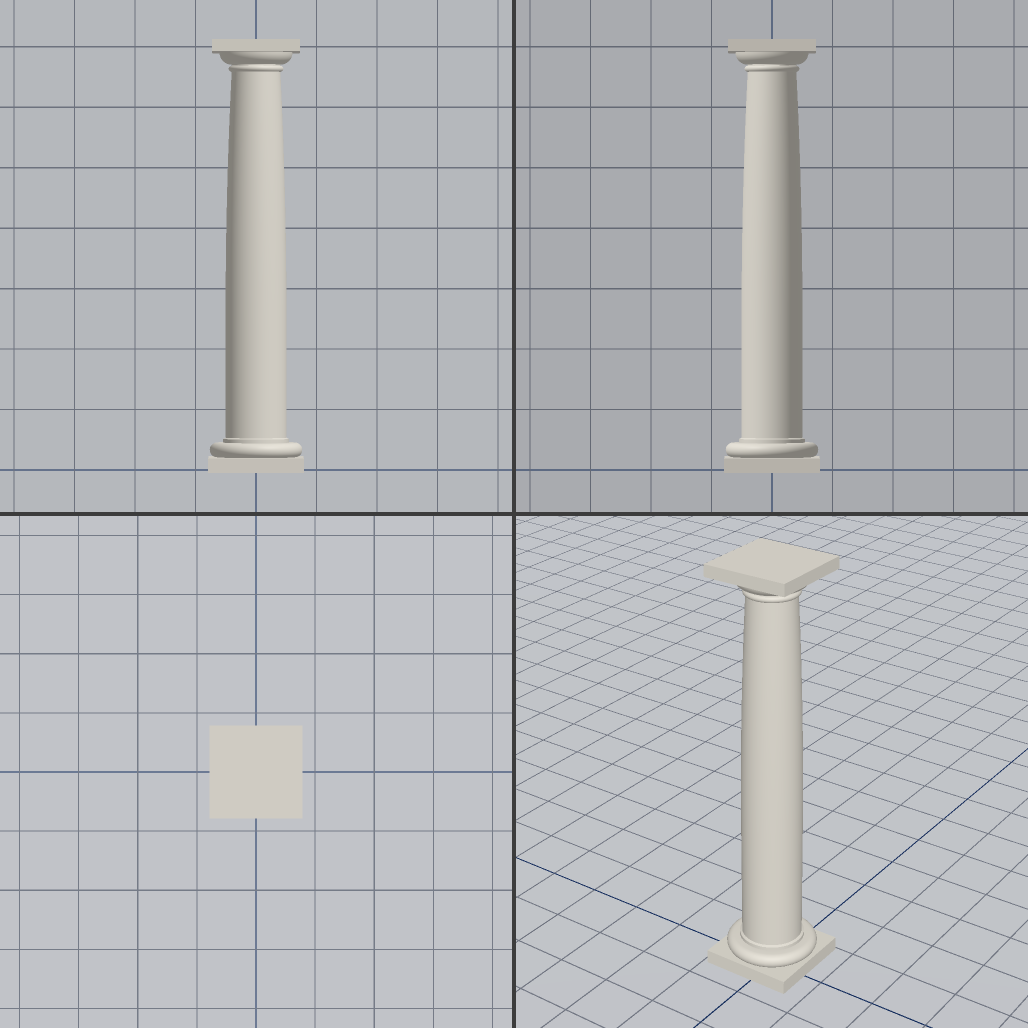
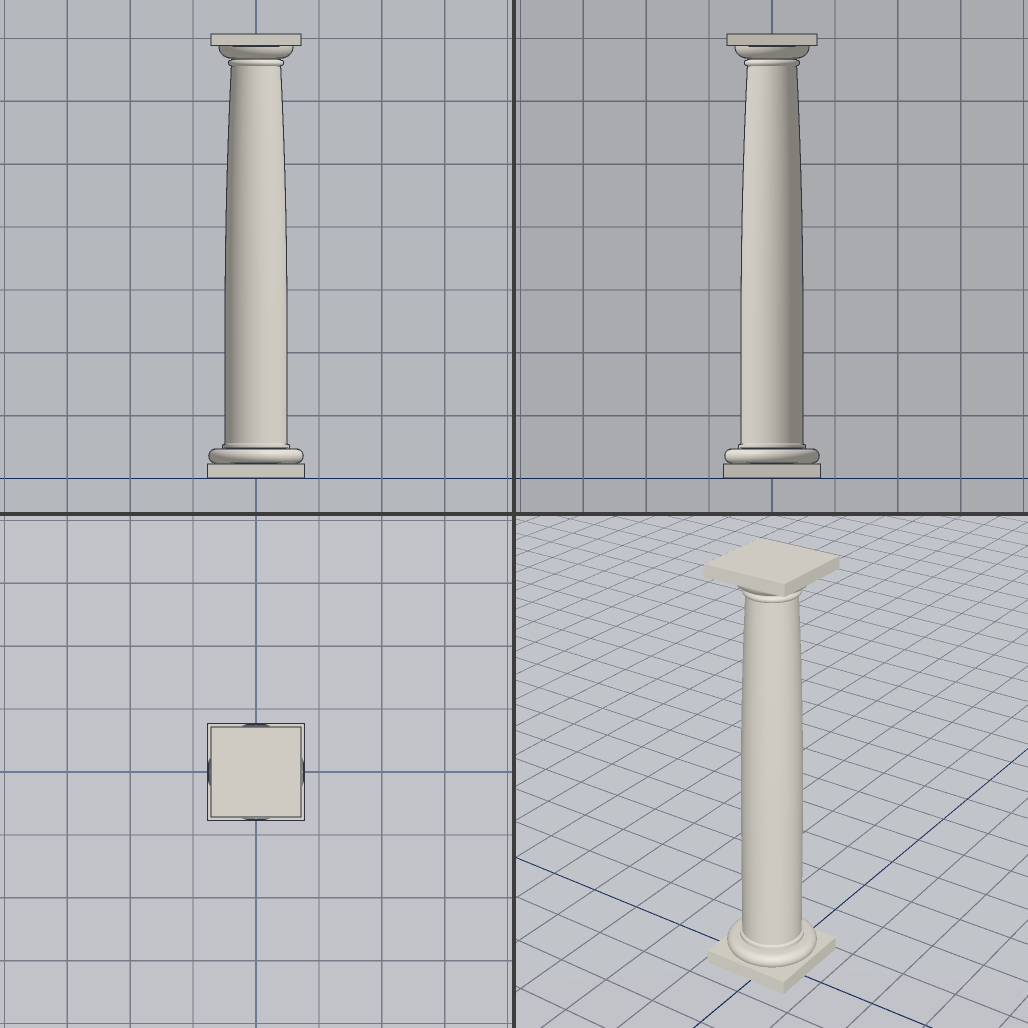
modeltool: plan views orthographic with outlines
The front, side and top views use render3d's orthographic camera (no more 4 degrees from far
away) and outlines from the depth buffer (depth jumps, creases from a slope change of 3), so
parallel faces of one colour at different depths are told apart; the three-quarter view stays
perspective.  The examples' sheets and reports again (reports: timing only); the geometry
checksum stays 5770c236d1379465 (the same at the base commit).

diff --git a/apps/modeltool/src/render.rs b/apps/modeltool/src/render.rs
@@ -2,10 +2,11 @@
 // (from +X, looking along -X: the right side), top (from +Y, the front at the bottom of the picture), the three
 // at one scale like the views of a drawing, and a three-quarter view (from front right above), each with a grid
 // behind the model whose spacing the report names; and the four as one sheet (front | side over top |
-// three-quarter).  render3d has only perspective
-// cameras and no anti-aliasing: the three plan views use a narrow field of view from far away (4 degrees, the
-// far side of a model looks at most a few per cent smaller), and every picture is drawn at twice the size
-// and averaged down.  Pictures are not part of any checksum: GPUs differ in the last bit.
+// three-quarter).  The three plan views are orthographic (render3d's Camera::ortho, G7f) with outlines from the depth
+// buffer (render3d's Outline): faces of one colour that lie parallel at different depths, which a plan view shows as
+// one area, get a line where their depth jumps (creases only from a slope change of 3, so the grid's thin slabs stay
+// without); the three-quarter view stays perspective.  Every picture is drawn at twice the size and averaged down
+// (render3d has no MSAA).  Pictures are not part of any checksum: GPUs differ in the last bit.
 
 use alloc::format;
 use alloc::string::String;
@@ -14,7 +15,7 @@ use alloc::vec::Vec;
 
 use geom::{Mesh, Vec3};
 use gpu::*;
-use render3d::{Camera, Instance, Material, MaterialId, MeshData, MeshId, Renderer, RendererDesc, Scene, Sun, Transform};
+use render3d::{Camera, Instance, Material, MaterialId, MeshData, MeshId, Outline, Renderer, RendererDesc, Scene, Sun, Transform};
 
 use crate::export::srgb_to_linear;
 use crate::host::Model;
@@ -25,8 +26,13 @@ const SUPER: u32 = 2;
 /// the background, linear rgb (an sRGB target would encode it; Rgba8Unorm takes it as it is)
 const CLEAR: [f32; 4] = [0.78, 0.81, 0.86, 1.0];
 
-/// the field of view of the plan views in degrees
-const PLAN_FOV: f64 = 4.0;
+/// the plan views' lines: a pixel of the picture wide (two of the picture drawn at twice the size), dark, on depth jumps
+/// and on creases from a slope change of 3
+fn plan_outline() -> Outline {
+    let mut o = Outline::new(SUPER, [0.03, 0.035, 0.05, 1.0]);
+    o.crease = 3.0;
+    o
+}
 
 /// the field of view of the three-quarter view
 const ISO_FOV: f64 = 20.0;
@@ -242,7 +248,7 @@ fn draw(dev: &Device, model: &Model, size: u32, no_grid: bool) -> Result<(Vec<(&
             scene.add(Instance { mesh: m, material: mat, transform: Transform::at([0.0; 3]) })?;
         }
         let gap = diag * 0.02;
-        let (eye, fov, grid_parts) = if vname == "iso" {
+        let (eye, ortho, grid_parts) = if vname == "iso" {
             let (sa, ca) = geom::math::sin_cos_deg(35.0);
             let (se, ce) = geom::math::sin_cos_deg(28.0);
             let d = Vec3::new(sa * ce, se, ca * ce);
@@ -251,22 +257,21 @@ fn draw(dev: &Device, model: &Model, size: u32, no_grid: bool) -> Result<(Vec<(&
             // the ground under the model
             let ground = b.min.y.min(0.0) - gap;
             let gp = grid(Vec3::new(c.x, 0.0, c.z), Vec3::X, -Vec3::Z, Vec3::Y, ground, diag * 6.0, step, diag / (px as f64) * 2.5);
-            (c + d * dist, ISO_FOV, gp)
+            (c + d * dist, None, gp)
         } else {
             // u right, v up on the screen, n towards the camera
             let n = d;
             let u = n.cross(up) * -1.0;
             let v = up;
-            // one scale for the three plan views: the largest extent of the model
+            // one scale for the three plan views: the largest extent of the model, orthographic (2 half high)
             let half = s.x.max(s.y).max(s.z).max(1e-3) * 0.5 * 1.15;
-            let dist = half / geom::math::sin_cos_deg(PLAN_FOV * 0.5).0 * geom::math::sin_cos_deg(PLAN_FOV * 0.5).1;
-            // the plate behind the model (the far side along n), larger than what the camera sees there
+            // the plate behind the model (the far side along n), larger than the view
             let back = b.min.dot(n).min(b.max.dot(n)) - gap;
             let back = if vname == "top" { back.min(-gap) } else { back };
-            let reach = half * (dist + c.dot(n) - back) / dist * 1.6;
-            let line = 2.0 * reach / 1.6 / px as f64 * 2.5;
+            let reach = half * 1.6;
+            let line = 2.0 * half / px as f64 * 2.5;
             let gp = grid(c, u, v, n, back, reach, step, line);
-            (c + n * (dist + diag * 0.5), PLAN_FOV, gp)
+            (c + n * diag, Some(2.0 * half), gp)
         };
         if !no_grid {
             for (m, mat) in [(&grid_parts.0, plate_mat), (&grid_parts.1, line_mat), (&grid_parts.2, axis_mat)] {
@@ -276,8 +281,17 @@ fn draw(dev: &Device, model: &Model, size: u32, no_grid: bool) -> Result<(Vec<(&
             }
         }
         let dist = (eye - c).length();
-        let near = (dist - diag * 2.0).max(dist * 1e-3);
-        let cam = Camera::look_at(eye.into(), c.into(), up.into(), fov * core::f64::consts::PI / 180.0, 1.0, near, f64::INFINITY);
+        let cam = match ortho {
+            // (from the eye's plane, a diagonal before the model's middle, to beyond the plate behind it)
+            Some(h) => {
+                scene.set_outline(Some(&plan_outline()))?;
+                Camera::ortho_at(eye.into(), c.into(), up.into(), h, 1.0, 0.0, dist + diag * 2.0 + gap * 4.0)
+            }
+            None => {
+                let near = (dist - diag * 2.0).max(dist * 1e-3);
+                Camera::look_at(eye.into(), c.into(), up.into(), ISO_FOV * core::f64::consts::PI / 180.0, 1.0, near, f64::INFINITY)
+            }
+        };
         scene.set_camera(&cam);
         scene.set_sun(&sun);
         let big = off.shot(&mut r, &mut scene)?;
